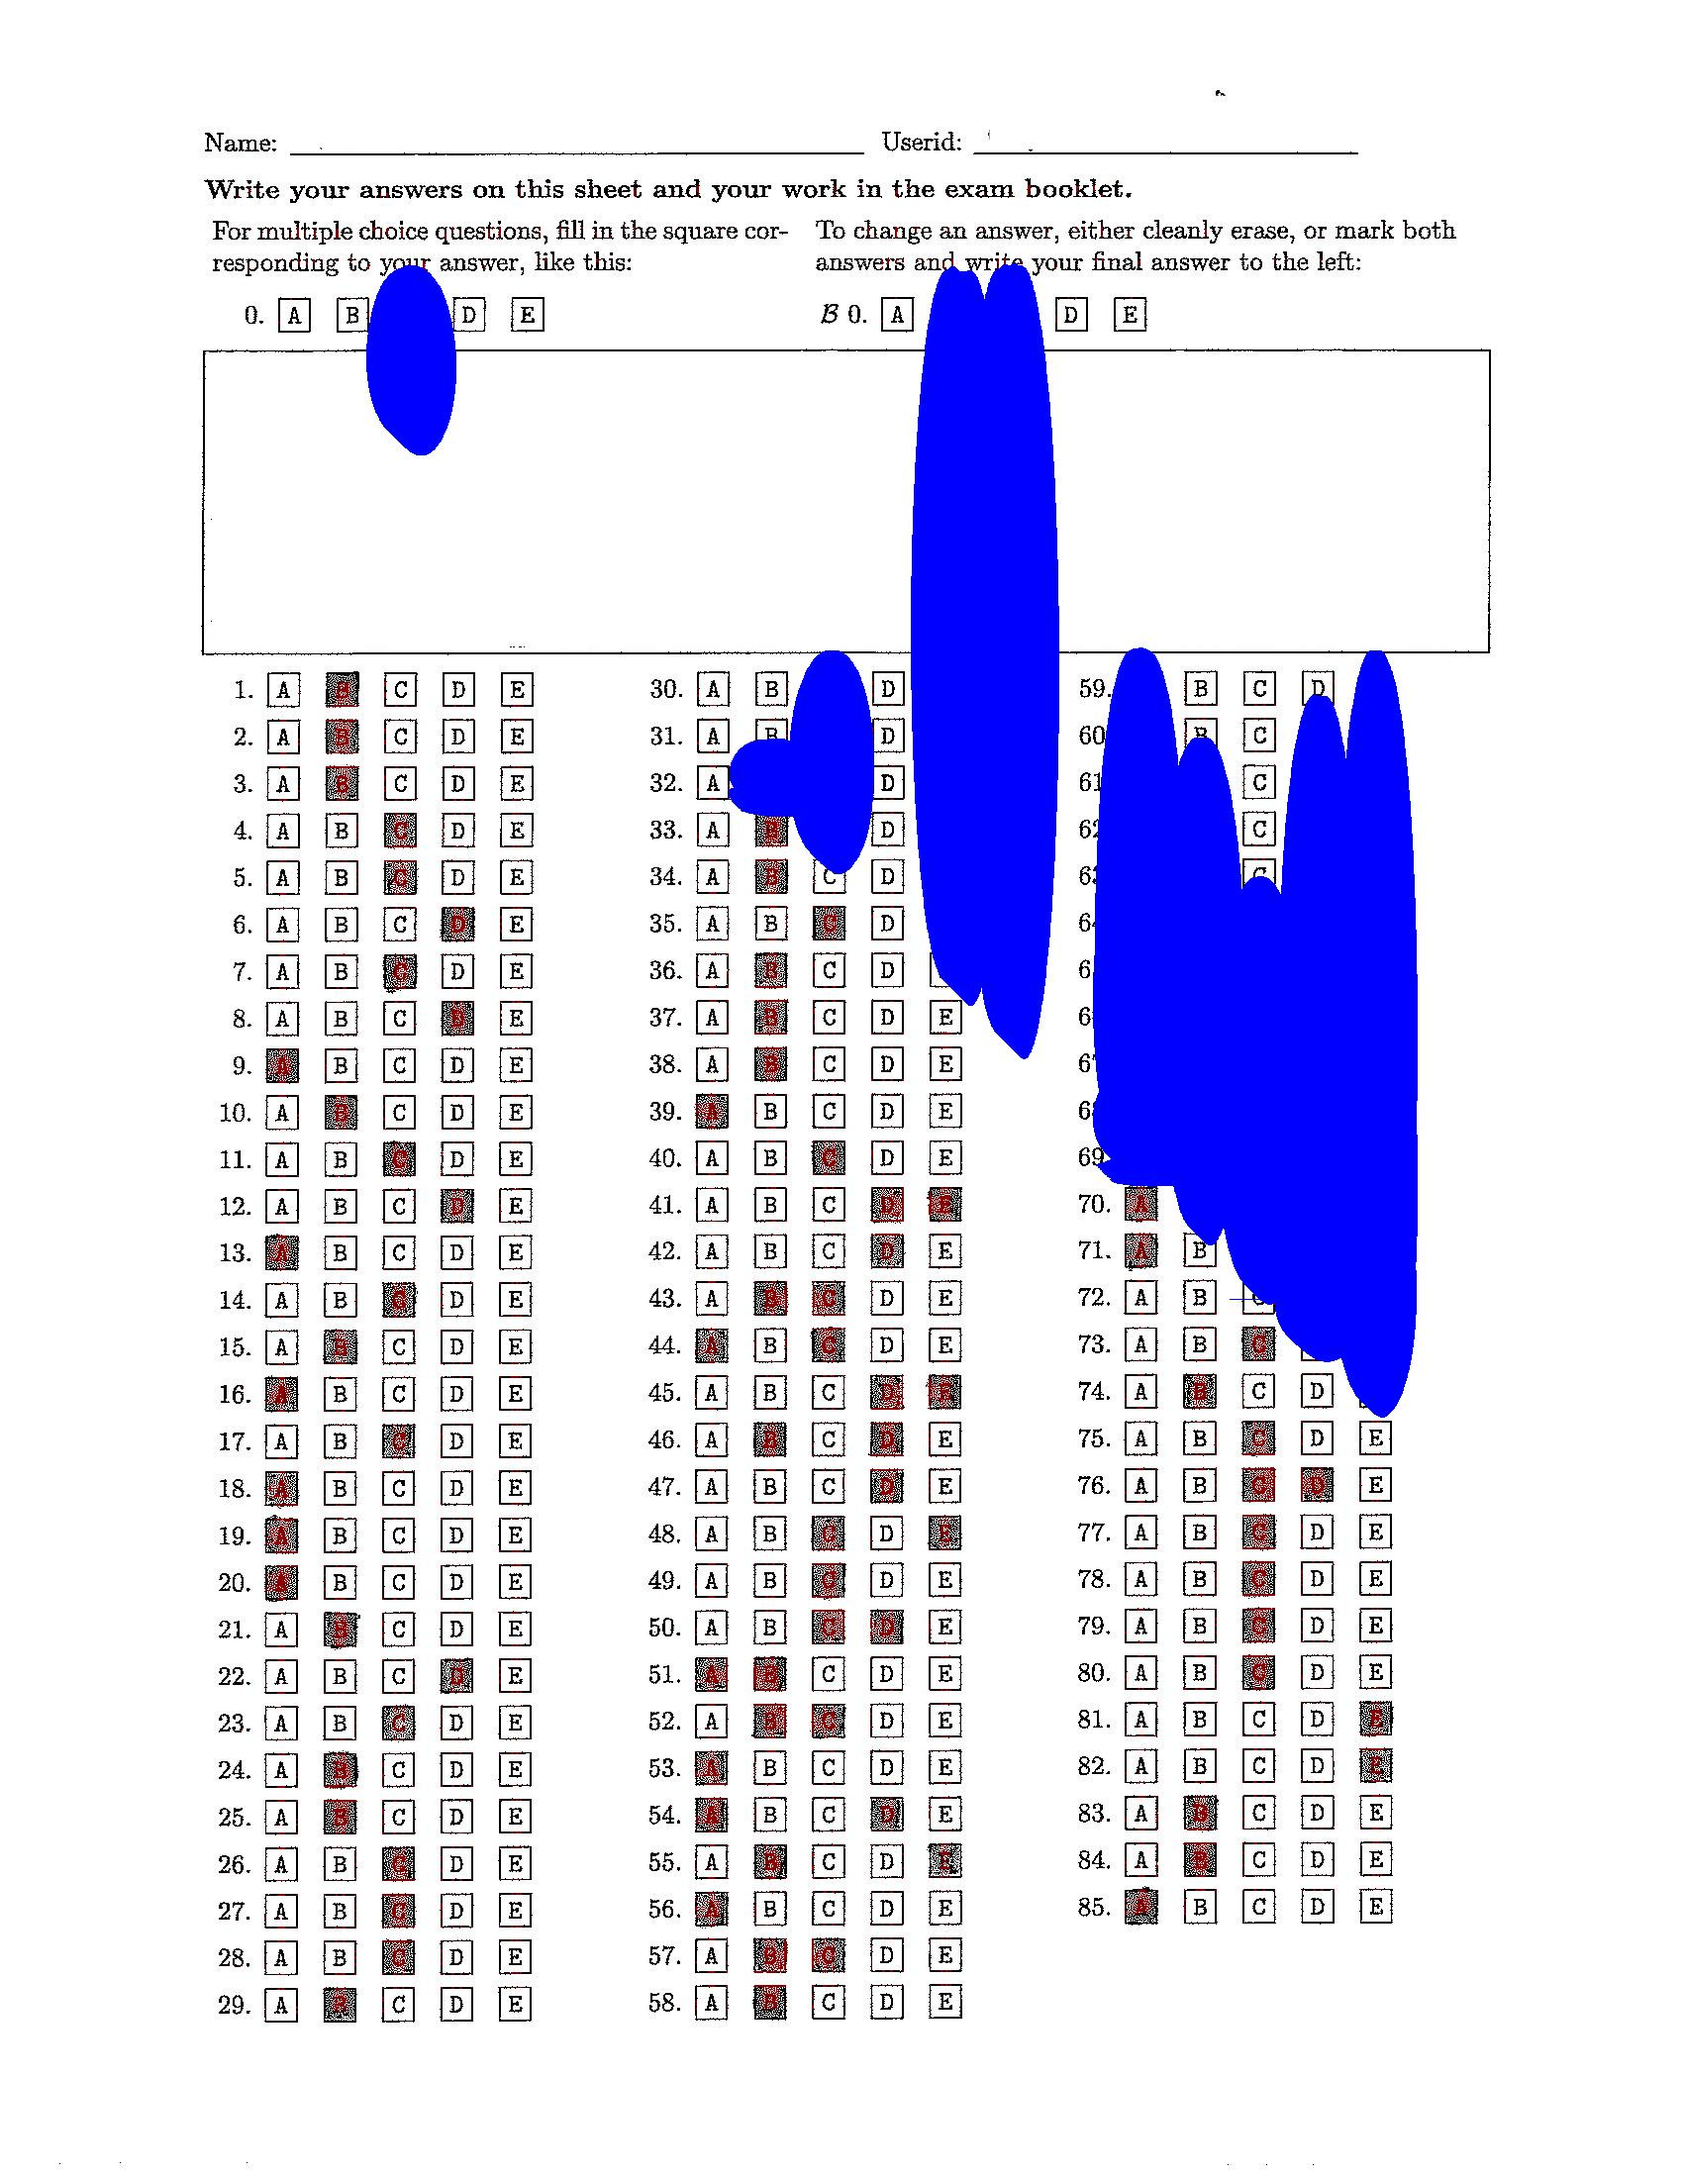
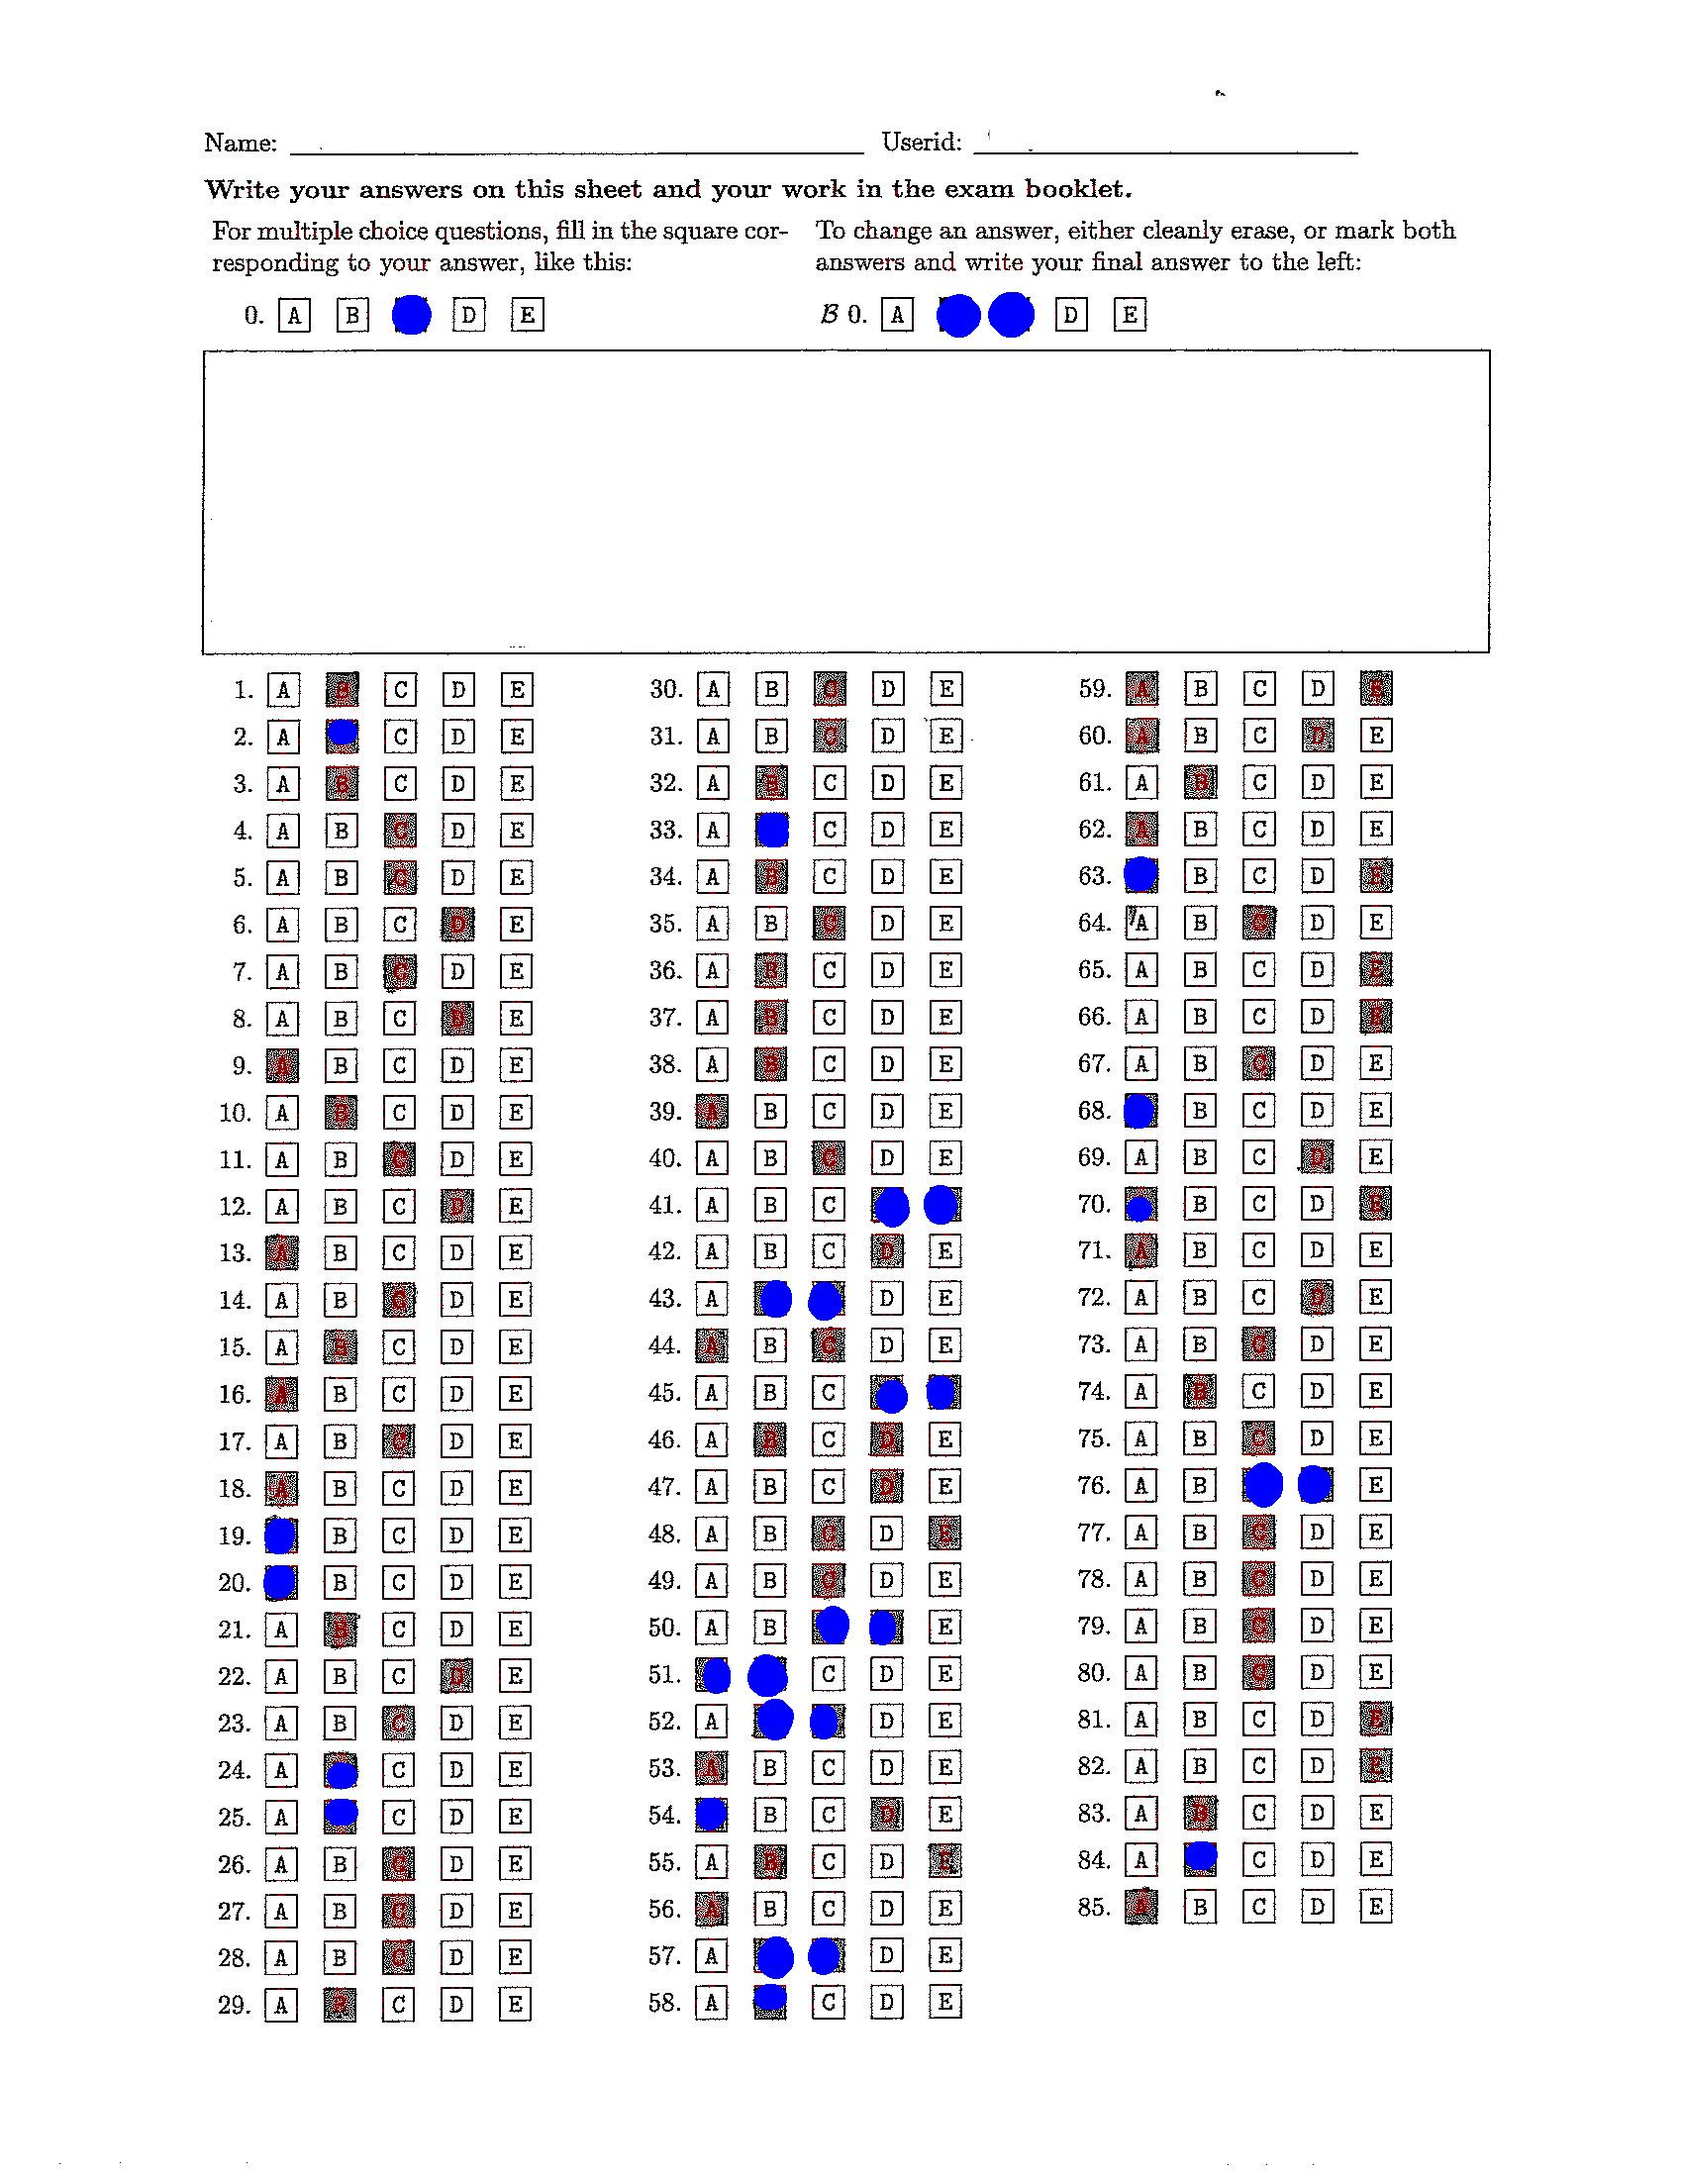
final of the night

diff --git a/assignment1/assignment1.py b/assignment1/assignment1.py
@@ -128,11 +128,11 @@ f = open("dict.txt","w")
 f.write( str(cluster) )
 f.close()
 
-
+threshold=int(len(cluster)/180)
 draw=ImageDraw.Draw(img2)
 for key,value in cluster.items():
-    if value>150:
-        draw.ellipse((key[0]-35,key[1]-35,key[0]+35,key[0]+35), fill='blue', outline='blue')
+    if value>threshold:
+        draw.ellipse((key[0]-12,key[1]-12,key[0]+12,key[1]+12), fill='blue')
 img2.save('circle.jpg')
 
 
